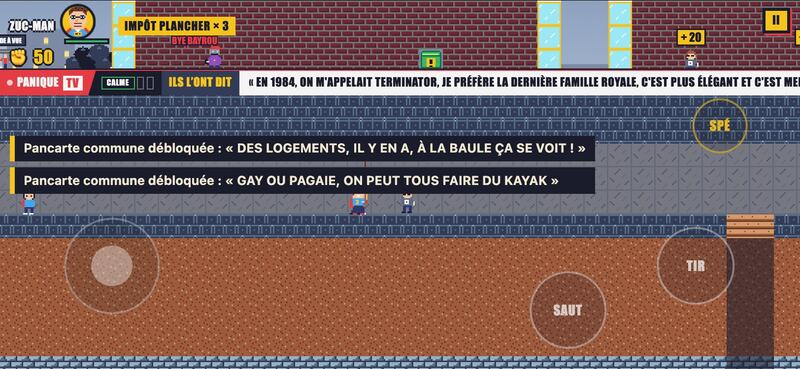
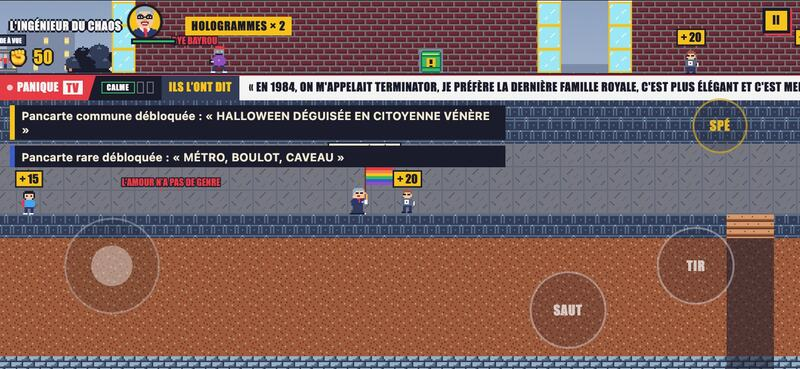
fix: trois fiches ramenées à ce que dit leur source, le calcul de la taxe testé, des notes courtes sur téléphone
Relecture de la PR 4 :
- enseignants-cout cite la phrase du rapporteur qui dit « sur une année pleine » ;
- renovation-aide compte le coût d'une rénovation (55 065 euros), pas l'aide de l'État ;
- renoncement-aux-soins dit « pauvres en conditions de vie », comme la DREES ;
- le calcul de l'écran de taxe sort dans taxNumbers, avec ses tests ; une fiche
  « finance » donnée par mois compte douze fois sur l'année ;
- sur téléphone, le bandeau laisse la place au compteur de manif même pendant
  son animation ; deux notes de déblocage au plus, juste sous le bandeau, et le
  texte d'une pancarte y est coupé à 44 caractères ;
- le guide dit que les banderoles du décor reprennent les pancartes de
  24 caractères au plus.

Changed region(s): [[0.0, 0.0, 1.0, 0.5962]]

diff --git a/src/client/tax.js b/src/client/tax.js
@@ -37,16 +37,36 @@ function drawStack(ctx, x, y) {
 }
 
 const billions = (euros) => frenchNumber(euros / 1e9, 1);
-/** Un grand nombre arrondi vers le bas à deux ou trois chiffres : 64 640 → « 64 000 », 247 → « 240 ». */
-const round = (n) => {
+/** Un grand nombre arrondi vers le bas à deux chiffres : 64 640 → « 64 000 », 247 → « 240 ». Jamais plus que le vrai. */
+export const round = (n) => {
   const step = 10 ** Math.max(0, Math.floor(Math.log10(Math.max(1, n))) - 1);
   return frenchNumber(Math.floor(n / step) * step);
 };
+/** Ce que vaut une fiche sur un an : sa valeur, douze fois si elle est donnée par mois (`par: mois`). */
+export const perYear = (fact) => fact.valeur * (fact.par === 'mois' ? 12 : 1);
+
+/**
+ * Les nombres de l'écran de taxe, sans rien dessiner.
+ * @param {number} billionsOwned  la fortune, en milliards d'euros
+ * @param {object} scale          la fiche `compare` : le revenu de quelqu'un
+ * @param {object | null} use     la fiche `finance` : ce que la taxe paierait
+ * @param {object[]} rent         les fiches dont le produit donne ce que la fortune rapporte en un an
+ */
+export function taxNumbers(billionsOwned, scale, use = null, rent = []) {
+  const fortune = billionsOwned * 1e9;
+  const income = perYear(scale);
+  const years = fortune / income;
+  const stackYears = STACK_YEARS.find((y) => years / y <= STACKS) ?? STACK_YEARS.at(-1);
+  const yearly = rent.length && rent.every((f) => f?.valeur) ? rent.reduce((total, f) => total * f.valeur, 1) : 0;
+  const tax = fortune * RATE;
+  return { fortune, income, years, stackYears, unit: income * stackYears, yearly, tax, count: use ? tax / perYear(use) : 0 };
+}
+
 const last = {}; // la dernière comparaison montrée de chaque sorte : on en change à la partie suivante
 /** Tire une comparaison au hasard, autre que la précédente s'il y a le choix. */
-function draw(kind, list) {
+export function draw(kind, list, random = Math.random) {
   const pool = list.length > 1 ? list.filter((f) => f.id !== last[kind]) : list;
-  const pick = pool[Math.floor(Math.random() * pool.length)];
+  const pick = pool[Math.floor(random() * pool.length)];
   last[kind] = pick?.id;
   return pick;
 }
@@ -68,21 +88,15 @@ function sourcesOf(facts) {
 export function showTaxScene(root, bundle, boss, { audio = null, hero = null, pick = draw } = {}) {
   return new Promise((resolve) => {
     const fiche = (id) => bundle.fiches[id];
-    const fortune = boss.fortune.montant * 1e9;
     // Le dictionnaire : à qui comparer la fortune, et ce que la taxe paierait. Tirés au hasard à chaque partie.
     const scale = pick('compare', taxScales(bundle));
     const use = pick('finance', taxUses(bundle));
     const shock = pick('choc', taxShocks(bundle));
-    if (!fortune || !scale) return resolve([]);
-    const income = scale.valeur * (scale.par === 'mois' ? 12 : 1); // revenu d'une année
-    const years = fortune / income;
-    const stackYears = STACK_YEARS.find((y) => years / y <= STACKS) ?? STACK_YEARS.at(-1);
-    const unit = income * stackYears;
+    if (!boss.fortune.montant || !scale) return resolve([]);
     const estimate = fiche(boss.fortune.fiche); // d'où vient le montant de la fortune
     // Ce que la fortune rapporte en un an : un dividende par action multiplié par un nombre d'actions, chacun avec sa source.
     const rent = boss.fortune.rente.map(fiche);
-    const yearly = rent.length && rent.every((f) => f?.valeur) ? rent.reduce((total, f) => total * f.valeur, 1) : 0;
-    const tax = fortune * RATE;
+    const { fortune, years, stackYears, unit, yearly, tax, count } = taxNumbers(boss.fortune.montant, scale, use, rent);
     const base = Math.round(fortune / unit);
     const gained = Math.round(yearly / unit);
     const taken = Math.max(1, Math.round(tax / unit));
@@ -154,7 +168,7 @@ export function showTaxScene(root, bundle, boss, { audio = null, hero = null, pi
       yearly > 0 && h('p', { className: 'qui' }, `Rien qu’en dividendes, elle rapporte ${billions(yearly)} milliards par an.`), legend);
     // Après : ce que 2 % paieraient (au plus : l'impôt est différentiel), et un fait frappant.
     const after = h('div', { className: 'detail apres', hidden: true },
-      h('p', { className: 'resultat' }, use ? `${round(tax / use.valeur)} ${use.finance}` : `Au plus ${billions(tax)} milliards par an`),
+      h('p', { className: 'resultat' }, use ? `${round(count)} ${use.finance}` : `Au plus ${billions(tax)} milliards par an`),
       h('p', { className: 'qui' }, use
         ? `Ce que paieraient 2 % de cette fortune${use.ponctuel ? ' en un an' : ', chaque année'} : au plus ${billions(tax)} milliards${under ? ', moins que ses dividendes' : ''}.`
         : `2 % de cette fortune${under ? ' : moins que ses dividendes' : ''}.`),

diff --git a/tests/taxe.test.js b/tests/taxe.test.js
@@ -1,0 +1,70 @@
+// Les nombres de l'écran de taxe : ils découlent des fiches, s'arrondissent vers le bas, et changent d'une partie à l'autre.
+
+import { test } from 'node:test';
+import assert from 'node:assert/strict';
+import { loadContent } from '../tools/content.mjs';
+import { taxNumbers, perYear, round, draw } from '../src/client/tax.js';
+import { taxScales, taxUses, taxShocks } from '../src/client/collection.js';
+
+const { bundle } = loadContent();
+/** « 64 000 » avec une espace ordinaire : le français des nombres met une espace fine insécable. */
+const plain = (text) => text.replace(/\s/g, ' ');
+
+test('taxe : la fortune à l’échelle d’un revenu, donné par an ou par mois', () => {
+  const yearly = taxNumbers(120, { valeur: 180000 });
+  assert.equal(yearly.fortune, 120e9);
+  assert.equal(Math.round(yearly.years), 666667);
+  assert.equal(plain(round(yearly.years)), '660 000', 'arrondi vers le bas, à deux chiffres');
+  const monthly = taxNumbers(120, { valeur: 15000, par: 'mois' });
+  assert.equal(monthly.years, yearly.years, '15 000 par mois, c’est 180 000 par an');
+  assert.equal(yearly.tax, 2.4e9, '2 % par an');
+});
+
+test('taxe : ce que 2 % paieraient, jamais plus que le vrai', () => {
+  const scale = { valeur: 180000 };
+  assert.equal(plain(round(taxNumbers(121.2, scale, { valeur: 37500 }).count)), '64 000', '2,424 milliards / 37 500 = 64 640');
+  assert.equal(taxNumbers(121.2, scale, { valeur: 3125, par: 'mois' }).count, taxNumbers(121.2, scale, { valeur: 37500 }).count,
+    'un coût donné par mois compte douze fois sur l’année');
+  assert.equal(taxNumbers(121.2, scale, null).count, 0, 'sans exemple : pas de nombre');
+  for (const n of [1, 9, 10, 99, 247, 64640, 999999, 6.8e6]) {
+    const shown = Number(round(n).replace(/\s/g, ''));
+    assert.ok(shown <= n && shown > n * 0.89, `${n} → ${round(n)}`);
+  }
+});
+
+test('taxe : ce que la fortune rapporte en un an est le produit de ses fiches', () => {
+  const rent = [{ valeur: 13 }, { valeur: 248874567 }];
+  assert.equal(taxNumbers(121.2, { valeur: 180000 }, null, rent).yearly, 13 * 248874567);
+  assert.equal(taxNumbers(121.2, { valeur: 180000 }, null, [{ valeur: 13 }, undefined]).yearly, 0, 'une fiche manque : on ne dit rien');
+  assert.equal(taxNumbers(121.2, { valeur: 180000 }).yearly, 0);
+});
+
+test('taxe : le tirage ne redonne pas le dernier, s’il y a le choix', () => {
+  const two = [{ id: 'a' }, { id: 'b' }];
+  let before = draw('essai', two).id;
+  for (let i = 0; i < 20; i++) {
+    const now = draw('essai', two).id;
+    assert.notEqual(now, before);
+    before = now;
+  }
+  assert.equal(draw('seul', [{ id: 'a' }]).id, 'a');
+  assert.equal(draw('seul', [{ id: 'a' }]).id, 'a', 'un seul choix : il revient');
+  assert.equal(draw('vide', []), undefined);
+});
+
+test('taxe : chaque fiche du dictionnaire donne un nombre affichable avec chaque boss', () => {
+  assert.ok(taxScales(bundle).length >= 2 && taxUses(bundle).length >= 10 && taxShocks(bundle).length >= 10);
+  for (const boss of Object.values(bundle.boss)) {
+    if (!boss.fortune.montant) continue;
+    for (const scale of taxScales(bundle)) {
+      const { years, stackYears } = taxNumbers(boss.fortune.montant, scale);
+      assert.ok(years >= 100, `${boss.id} / ${scale.id} : ${years} ans`);
+      assert.ok(years / stackYears >= 1, `${boss.id} / ${scale.id} : au moins une liasse`);
+    }
+    for (const use of taxUses(bundle)) {
+      const { count } = taxNumbers(boss.fortune.montant, taxScales(bundle)[0], use);
+      assert.ok(count >= 10, `${boss.id} / ${use.id} : ${count} ${use.finance}`);
+      assert.ok(perYear(use) > 0);
+    }
+  }
+});

diff --git a/src/client/main.js b/src/client/main.js
@@ -100,6 +100,9 @@ function toMenu() {
   radio.play('menu');
 }
 
+/** Une note à l'écran reste courte : le texte entier est dans la Collection. */
+const short = (text, max = 44) => (text.length > max ? `${text.slice(0, max - 1).trimEnd()}…` : text);
+
 /**
  * Une rencontre : la carte entre dans la Collection, avec la citation et le fait qui l'expliquent.
  * La première fois, on l'annonce (sauf `quiet`).
@@ -109,7 +112,7 @@ function collect(kind, id, quiet = false) {
   const item = lines ? bundle[kind].find((p) => p.texte === id) : bundle[kind]?.[id];
   if (!item || !discover(save, kind, id)) return;
   won.push(`${kind}:${id}`);
-  if (kind === 'pancartes') hud.toast(`Pancarte ${rarityName(item)} débloquée : « ${item.texte} »`, `rarete-${item.rarete}`);
+  if (kind === 'pancartes') hud.toast(`Pancarte ${rarityName(item)} débloquée : « ${short(item.texte)} »`, `rarete-${item.rarete}`);
   else if (!quiet) hud.toast(`Débloqué : ${cardName(item)}`);
   collect('citations', item.citation, true);
   for (const fiche of [item.fiche].flat()) collect('fiches', fiche, true);

diff --git a/style.css b/style.css
@@ -339,8 +339,9 @@ body.tactile.en-jeu #tactile { display: block; position: absolute; inset: 0; z-i
 /* Au pouce : le HUD s'écarte des encoches et le bandeau passe en haut, hors des pouces. */
 body.tactile #hud .gauche { left: max(10px, env(safe-area-inset-left)); }
 body.tactile #hud .droite { right: max(10px, env(safe-area-inset-right)); }
-body.tactile #bandeau { bottom: auto; top: 5.9em; }
-body.tactile #toasts { top: 8.6em; left: max(10px, env(safe-area-inset-left)); }
+body.tactile #bandeau { bottom: auto; top: 6.3em; }
+body.tactile #toasts { top: 8.9em; left: max(10px, env(safe-area-inset-left)); max-width: 62%; font-size: clamp(.75rem, 2.6vmin, 1.25rem); } /* juste sous le bandeau : même unité que lui */
+body.tactile #toasts p { font-size: .72rem; padding: .35em .6em; }
 html.pivote body.tactile #hud .gauche, html.pivote body.tactile #toasts { left: max(10px, env(safe-area-inset-top)); }
 html.pivote body.tactile #hud .droite { right: max(10px, env(safe-area-inset-bottom)); }
 

diff --git a/src/client/render.js b/src/client/render.js
@@ -502,7 +502,10 @@ export class Renderer {
     }
   }
 
-  /** La vraie pancarte écrite sur un décor (banderole, tag) : toujours la même au même endroit. */
+  /**
+   * La vraie pancarte écrite sur un décor (banderole, tag) : toujours la même au même endroit.
+   * Une banderole n'a la place que de 24 caractères : seules les pancartes courtes s'y écrivent (c'est dit dans le guide).
+   */
   written(d) {
     this.signs ??= this.bundle.pancartes.filter((p) => p.texte.length <= 24);
     return this.signs.length ? this.signs[Math.floor(d.x / 16 + d.y * 7) % this.signs.length].texte : '';

diff --git a/src/client/ui.js b/src/client/ui.js
@@ -457,7 +457,7 @@ export class Hud {
   toast(text, tone = '') {
     const note = h('p', { className: tone }, text);
     const box = this.q('toasts');
-    while (box.children.length > 2) box.firstChild.remove();
+    while (box.children.length > 1) box.firstChild.remove(); // deux notes à la fois, pas plus : l'écran reste au jeu
     box.append(note);
     setTimeout(() => note.remove(), 4200);
   }

diff --git a/docs/ajouter-une-blague.md b/docs/ajouter-une-blague.md
@@ -2,7 +2,7 @@
 
 Une ligne de texte, et c'est dans le jeu. Le jeu n'affiche que du vrai : ce qui a été écrit, scandé ou diffusé, avec où, quand et le lien.
 
-- Une **pancarte** vue en manif, un **slogan** scandé : [`content/pancartes/`](../content/pancartes). Le cortège les brandit, les banderoles et les tags les reprennent.
+- Une **pancarte** vue en manif, un **slogan** scandé : [`content/pancartes/`](../content/pancartes). Le cortège les brandit ; les banderoles et les tags du décor reprennent celles de 24 caractères au plus, la place qu'ils ont.
 - Un **bandeau** de chaîne d'info : [`content/manchettes/`](../content/manchettes). PANIQUE TV le diffuse en alerte quand la panique monte.
 
 Chacune se débloque en jouant et se retrouve dans la Collection, rayons « Pancartes » et « Vu à la télé ». Une pancarte se débloque quand elle arrive dans la manif : une tranche de vingt personnes qui rejoint le cortège en apporte une, une fois sur deux, tirée au hasard parmi toutes.
